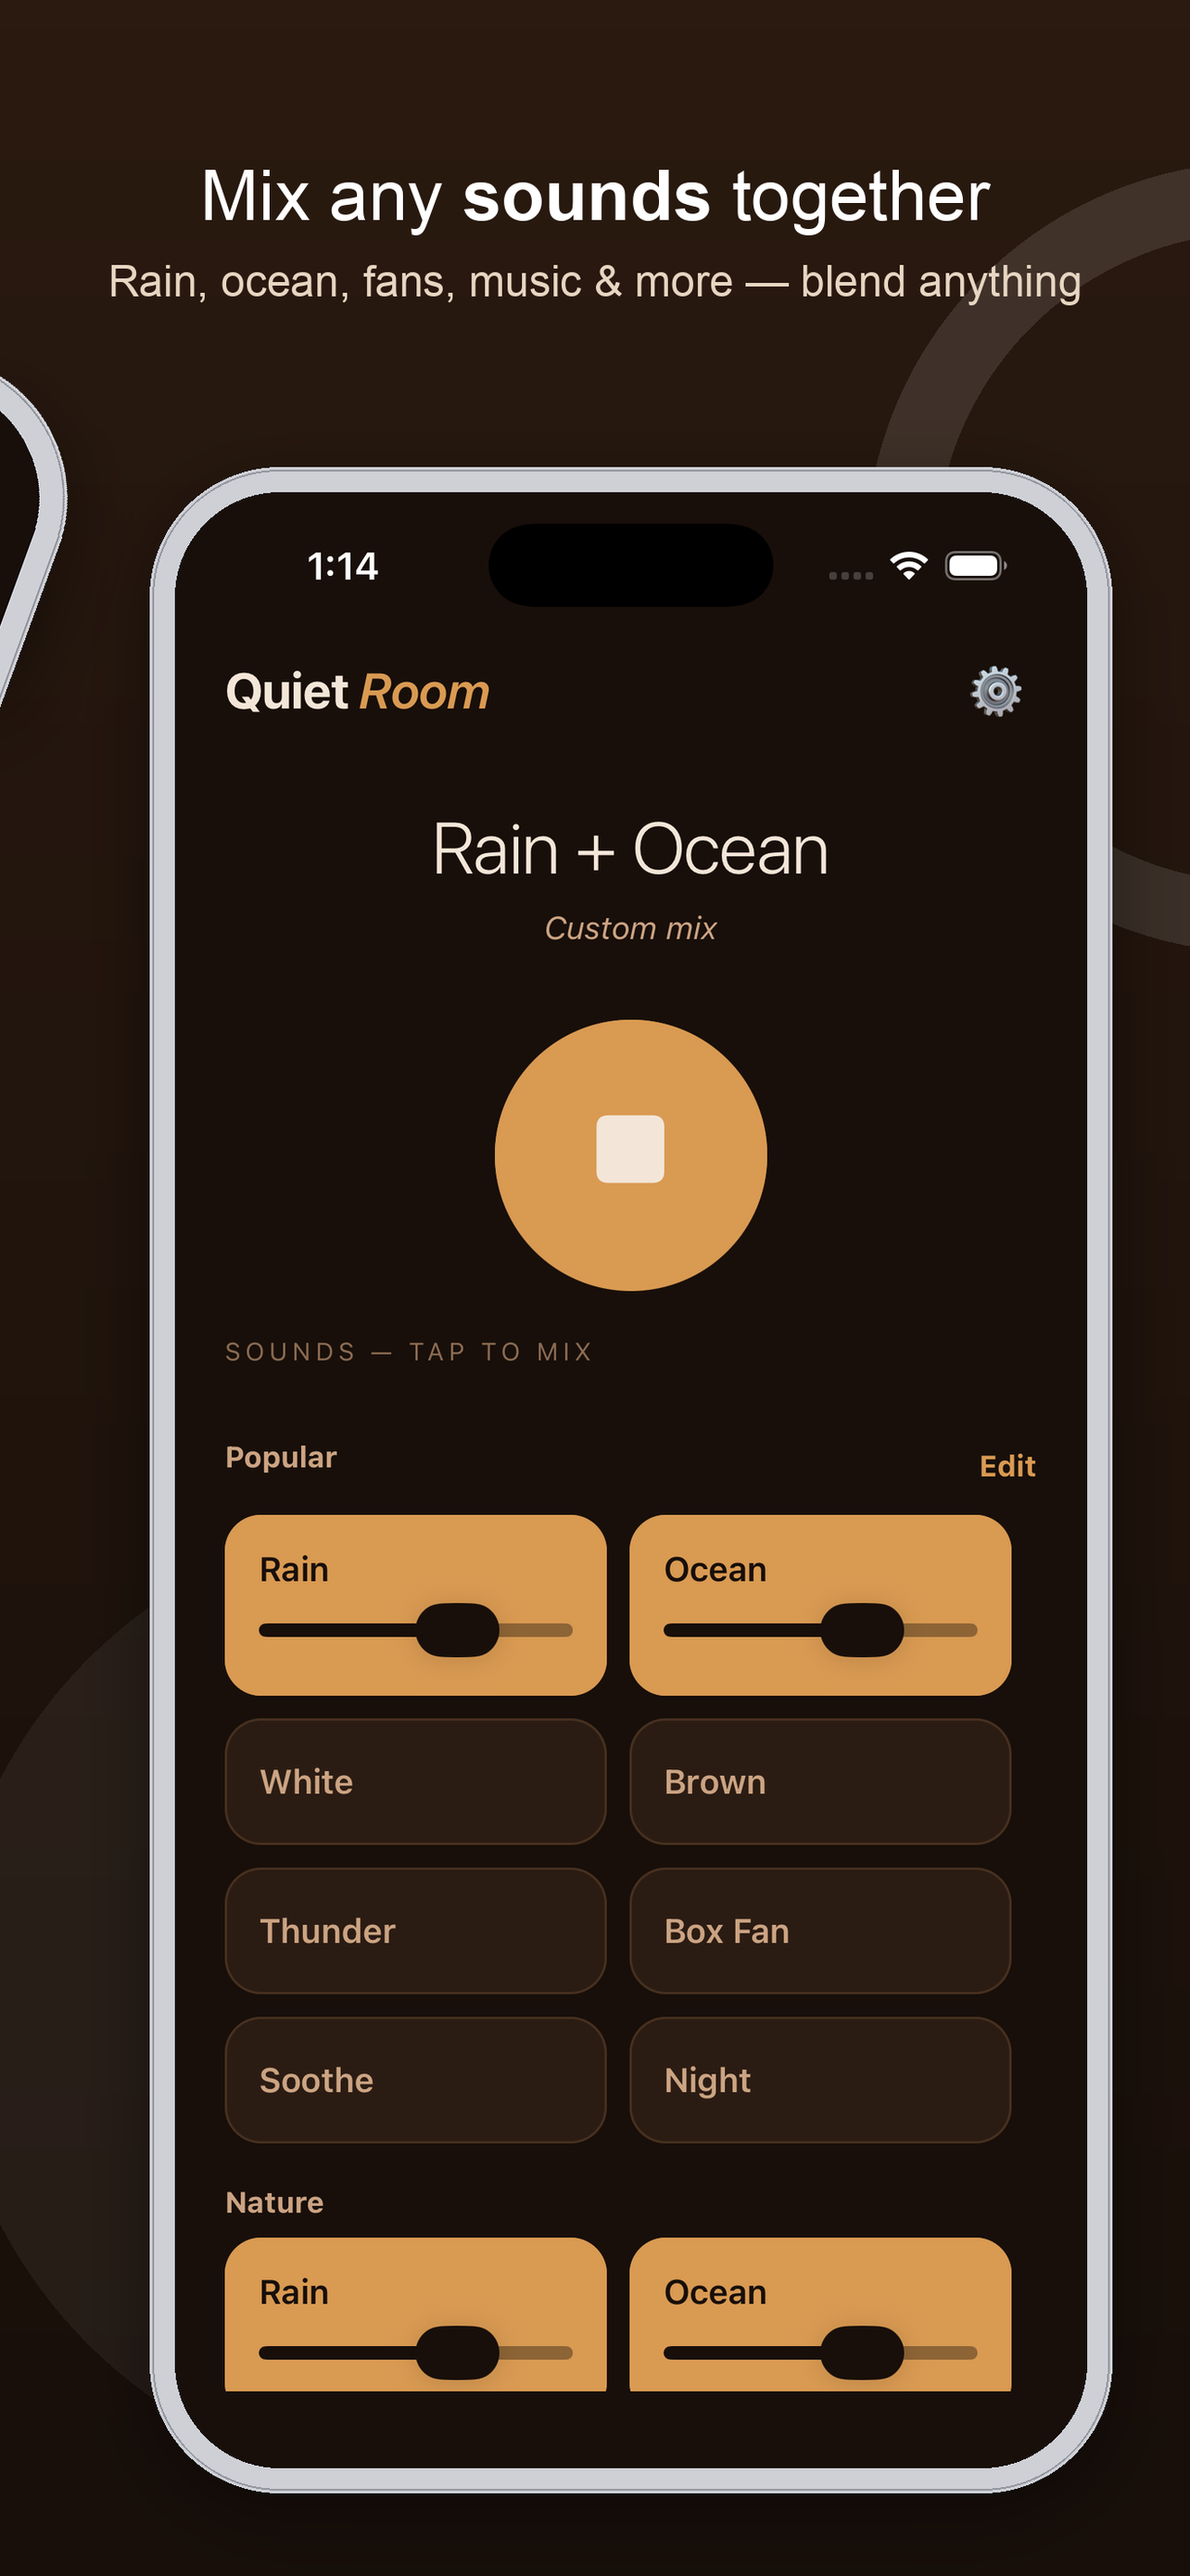
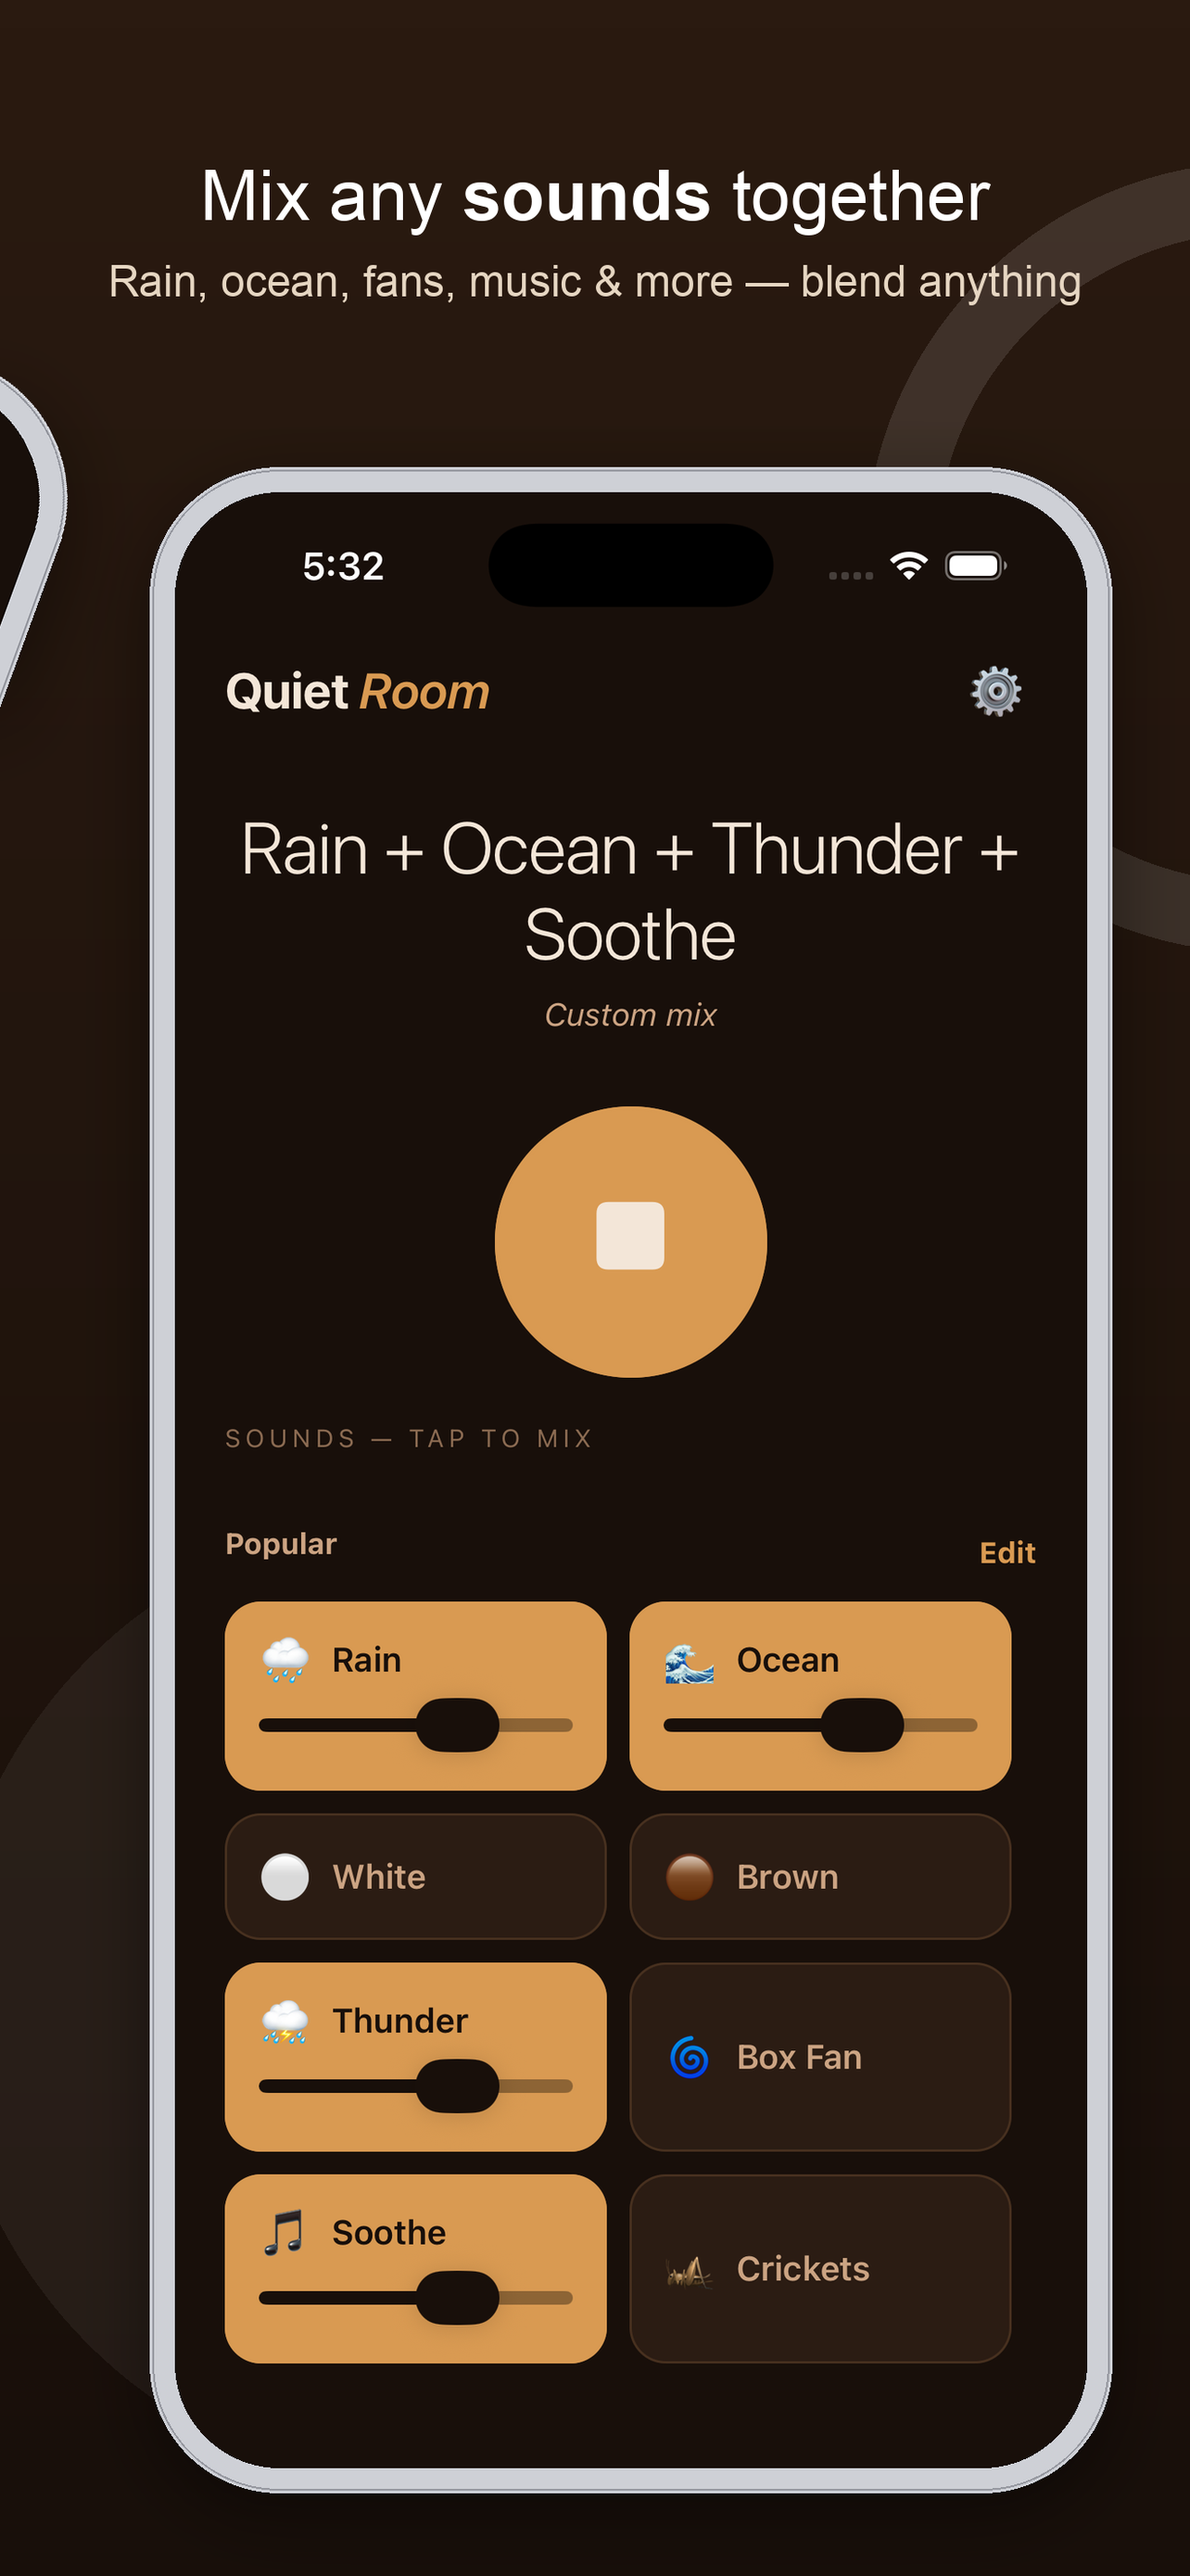
chore: update mixing screenshot to a 4-sound mix
* Rain + Ocean + Thunder + Soothe instead of just Rain + Ocean, to
  better demonstrate mixing depth on the App Store listing

diff --git a/docs/index.html b/docs/index.html
@@ -251,7 +251,7 @@
     <div class="gallery-track" id="galleryTrack">
       <div class="gallery-card"><img src="gallery/01-hero.jpg" alt="Quiet Room app icon with the tagline Ambient sounds for better sleep and four key features listed" loading="lazy" /></div>
       <div class="gallery-card"><img src="gallery/02-hero.jpg" alt="The Choose a Mix screen showing categorized ambient sound tiles like Rain, White, Thunder, and Box Fan" loading="lazy" /></div>
-      <div class="gallery-card"><img src="gallery/03-mixing.jpg" alt="Mix any sounds together screen showing a Rain plus Ocean custom mix playing with independent volume sliders" loading="lazy" /></div>
+      <div class="gallery-card"><img src="gallery/03-mixing.jpg" alt="Mix any sounds together screen showing a Rain plus Ocean plus Thunder plus Soothe custom mix playing with independent volume sliders" loading="lazy" /></div>
       <div class="gallery-card"><img src="gallery/04-library-nature.jpg" alt="Every nature sound screen listing Rain, Ocean, Wind, Campfire, Thunder, Night, and the White, Pink, Brown noise options" loading="lazy" /></div>
       <div class="gallery-card"><img src="gallery/05-library-rest.jpg" alt="Fans, music and tones screen listing all 6 fans, 4 music pads, and the headphone-only binaural tones" loading="lazy" /></div>
       <div class="gallery-card"><img src="gallery/06-timer.jpg" alt="Custom sleep timer sheet set to 1 hour, with Duration and End Time tabs" loading="lazy" /></div>
